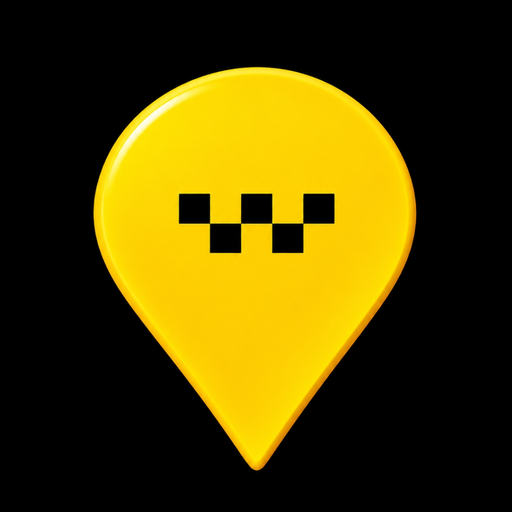
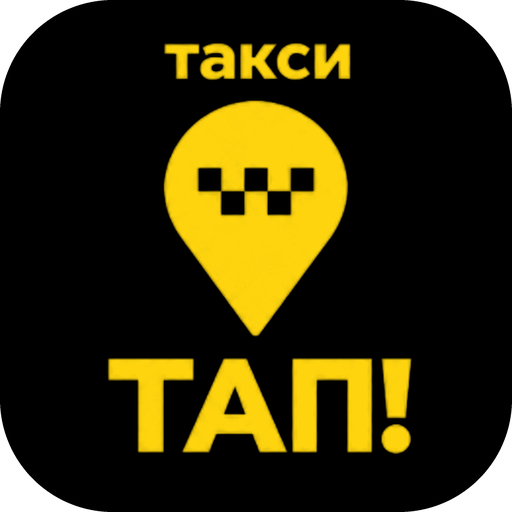
Телефондогу сүрөтчө: жаңы «такси ТАП!» логотиби
Claude-Session: https://claude.ai/code/session_01QqaFd74dCabiCok1GW4n4v

diff --git a/static/sw.js b/static/sw.js
@@ -1,6 +1,6 @@
 // Такси ТАП! — service worker: тиркеме катары орнотуу жана интернет жок болсо жөнөкөй бет.
 // API'лер жана карта кэштелбейт — абал ар дайым жаңы болушу керек.
-const SHELL = "taxitap-v60";
+const SHELL = "taxitap-v61";
 const PAGES = ["/", "/driver", "/static/area.js", "/static/manifest.json", "/static/icon-192.png", "/static/logo.png",
   "/static/h_taxi.webp", "/static/h_box.webp", "/static/h_girl.webp", "/static/h_map.webp"];
 self.addEventListener("install", e => e.waitUntil(caches.open(SHELL).then(c => c.addAll(PAGES)).then(() => self.skipWaiting())));

diff --git a/static/driver.html b/static/driver.html
@@ -6,7 +6,7 @@
 <meta name="theme-color" content="#fafafa">
 <title>Такси ТАП! — Айдоочу</title>
 <link rel="manifest" href="/static/manifest.json">
-<link rel="apple-touch-icon" href="/static/icon-192.png?v=3">
+<link rel="apple-touch-icon" href="/static/icon-192.png?v=4">
 <link rel="stylesheet" href="https://unpkg.com/leaflet@1.9.4/dist/leaflet.css">
 <style>
 :root{--navy:#17365C;--gold:#C9A03A;--gold2:#E3C368;--ink:#152741;--soft:#5A6880;--paper:#F1F4F9;--line:#E1E7F1;--ok:#1D9E75;--bad:#D8443A}

diff --git a/static/park.html b/static/park.html
@@ -5,7 +5,7 @@
 <meta name="viewport" content="width=device-width, initial-scale=1, viewport-fit=cover">
 <meta name="theme-color" content="#fafafa">
 <title>Таксопарк кабинети — Такси ТАП!</title>
-<link rel="apple-touch-icon" href="/static/icon-192.png?v=3">
+<link rel="apple-touch-icon" href="/static/icon-192.png?v=4">
 <link rel="stylesheet" href="/static/theme.css?v=37">
 <style>
 body{margin:0;font-family:Inter,system-ui,sans-serif;background:#f6f6f8;color:#16161a}

diff --git a/static/rider.html b/static/rider.html
@@ -6,7 +6,7 @@
 <meta name="theme-color" content="#fafafa">
 <title>Такси ТАП!</title>
 <link rel="manifest" href="/static/manifest.json">
-<link rel="apple-touch-icon" href="/static/icon-192.png?v=3">
+<link rel="apple-touch-icon" href="/static/icon-192.png?v=4">
 <link rel="stylesheet" href="https://unpkg.com/leaflet@1.9.4/dist/leaflet.css">
 <style>
 :root{--navy:#17365C;--navy2:#1E4574;--gold:#C9A03A;--gold2:#E3C368;--ink:#152741;--soft:#5A6880;
